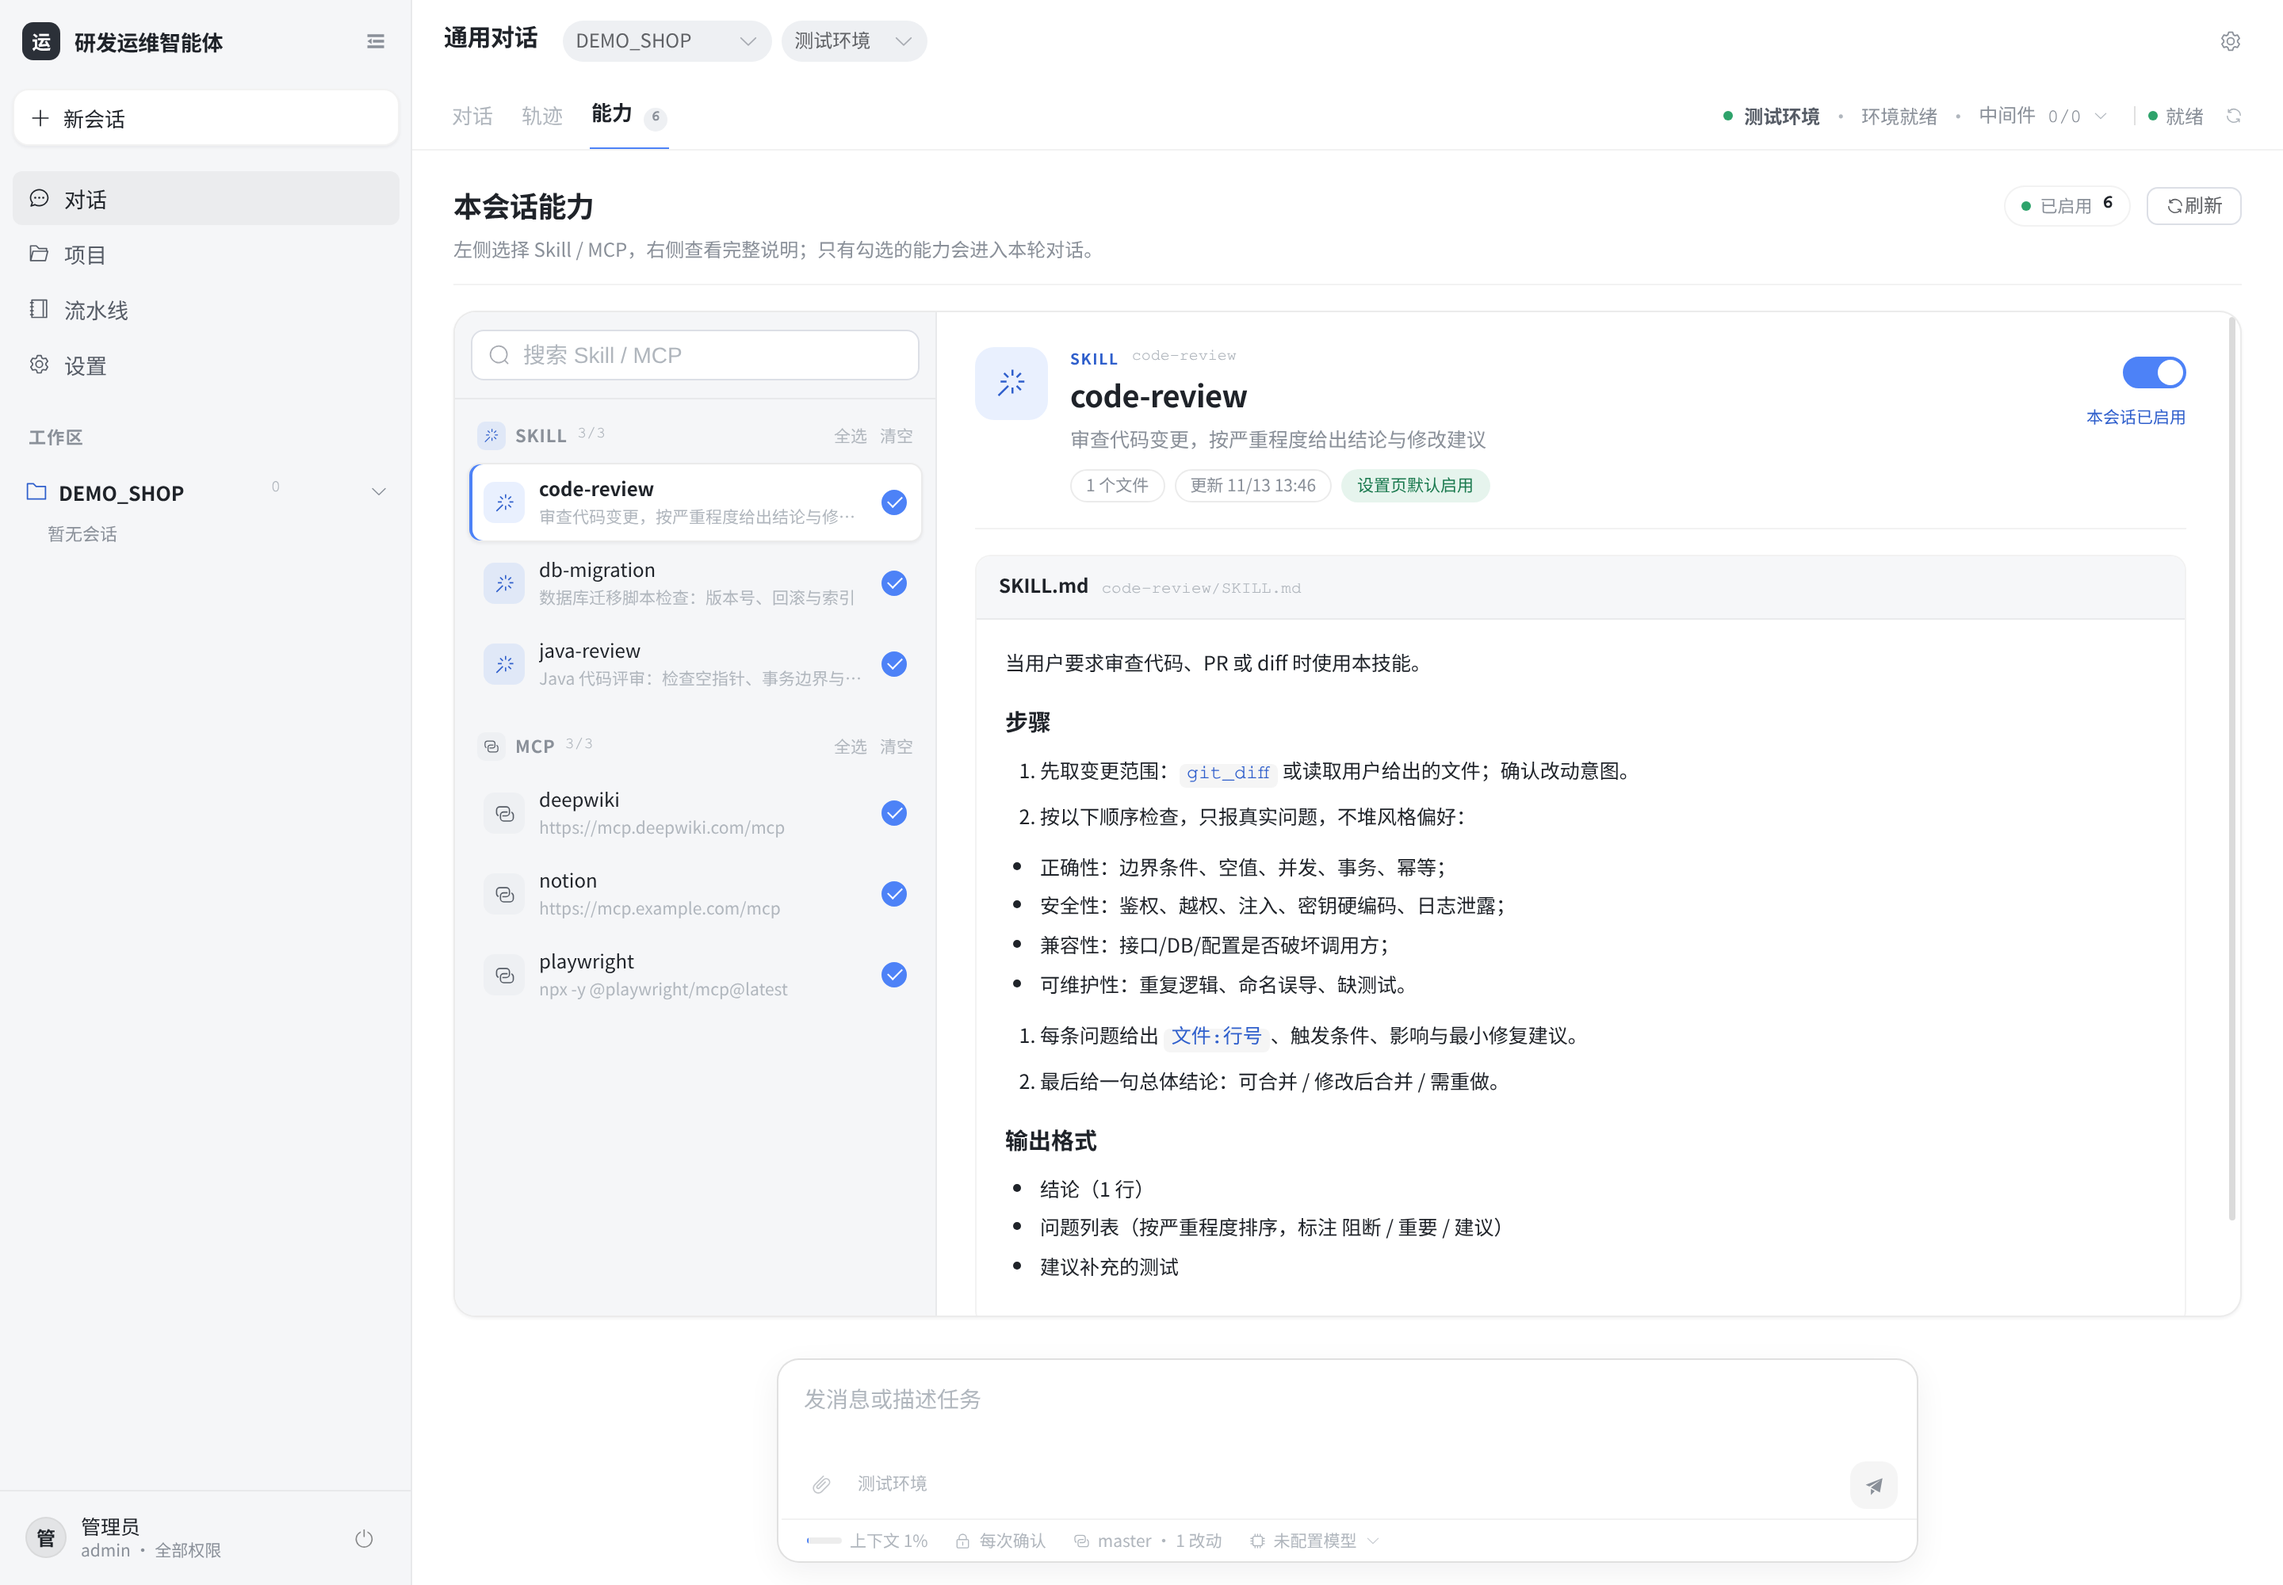
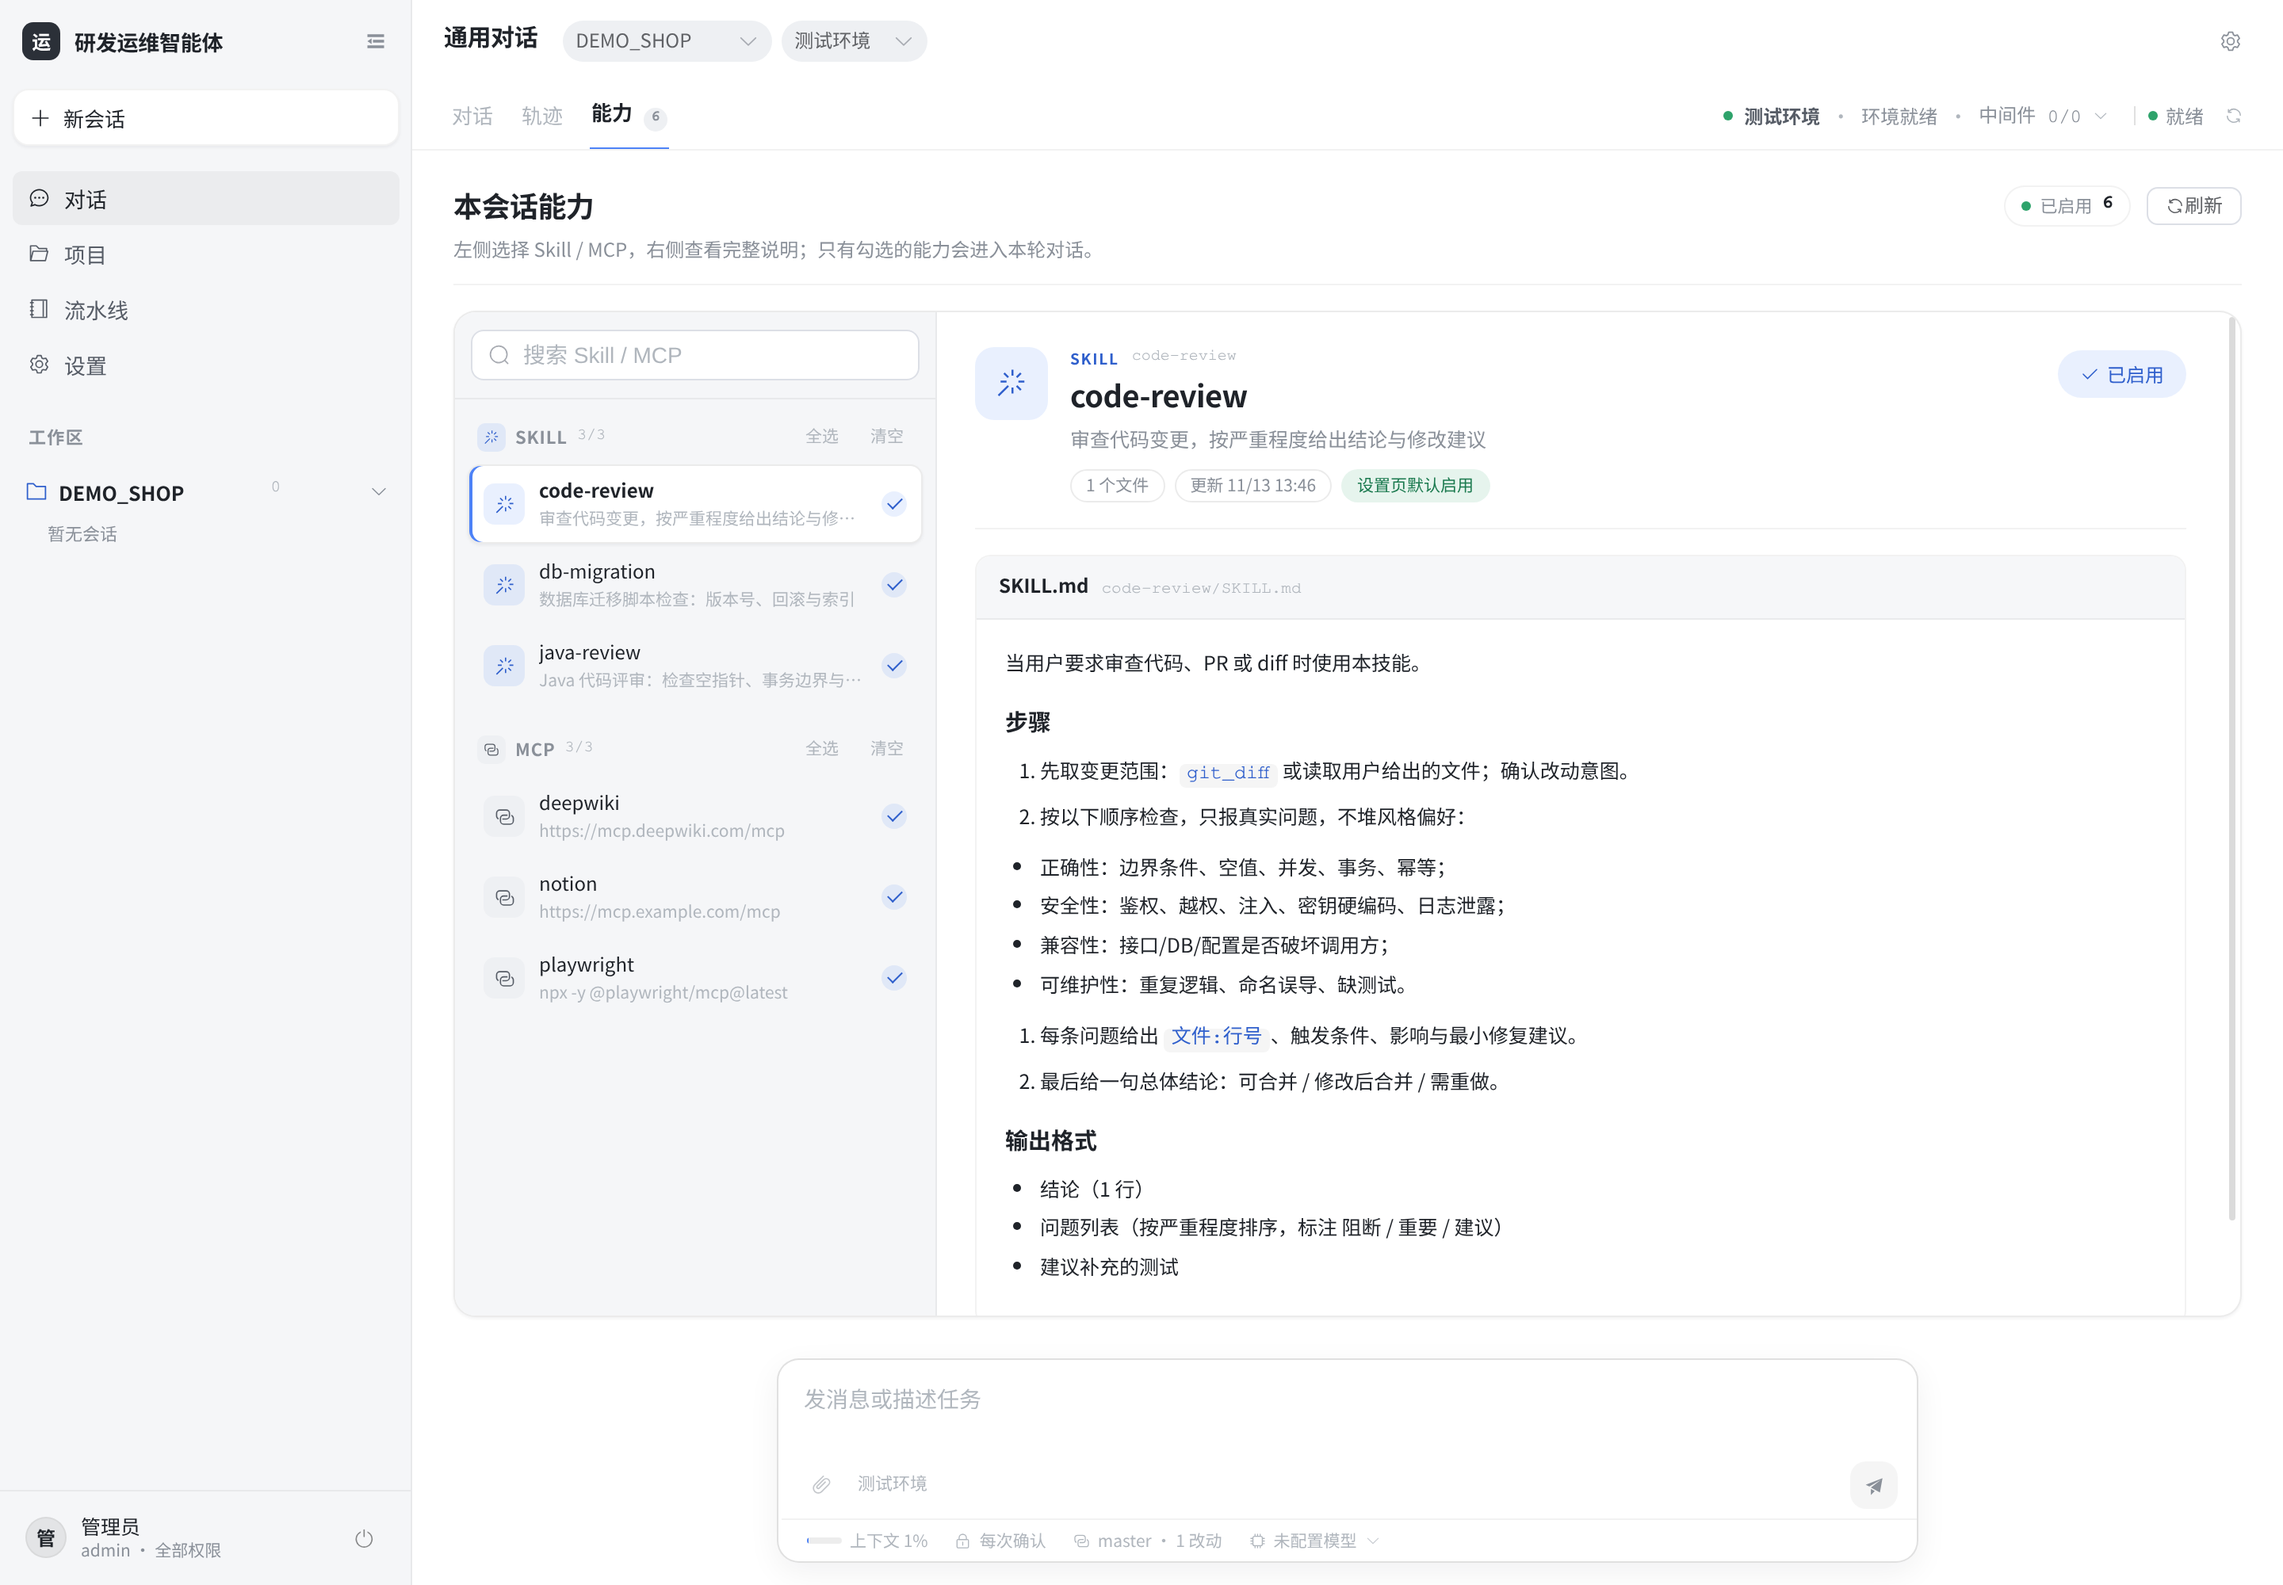
feat: update workspace

diff --git a/platform/web/src/components/chat/ChatCapabilitiesView.vue b/platform/web/src/components/chat/ChatCapabilitiesView.vue
@@ -1,6 +1,6 @@
 <script setup lang="ts">
 import { computed, ref, watch } from 'vue'
-import { Connection, MagicStick, Refresh, Search } from '@element-plus/icons-vue'
+import { Check, Connection, MagicStick, Plus, Refresh, Search } from '@element-plus/icons-vue'
 import type { CapabilityOption } from '../../composables/useChatCapabilities'
 import { readSkill } from '../../api/settings'
 import MarkdownView from './MarkdownView.vue'
@@ -258,13 +258,13 @@ function formatTime(ts?: number): string {
                 </div>
               </div>
               <div class="hero-switch">
-                <el-switch
-                  :model-value="isOn(active)"
-                  @change="(v: string | number | boolean) => toggleActive(Boolean(v))"
-                />
-                <span class="switch-label" :class="{ on: isOn(active) }">
-                  {{ isOn(active) ? '本会话已启用' : '本会话未启用' }}
-                </span>
+                <button
+                  type="button" class="cap-toggle" :class="{ on: isOn(active) }"
+                  @click="toggleActive(!isOn(active))"
+                >
+                  <el-icon><Check v-if="isOn(active)" /><Plus v-else /></el-icon>
+                  {{ isOn(active) ? '已启用' : '启用' }}
+                </button>
               </div>
             </div>
 
@@ -484,15 +484,19 @@ function formatTime(ts?: number): string {
   gap: 8px;
 }
 .link {
-  padding: 0;
+  padding: 2px 6px;
   font-size: 10.5px;
   color: var(--ink-faint);
   cursor: pointer;
   background: none;
   border: 0;
+  border-radius: var(--radius-xs);
+  transition: color var(--dur-fast) var(--ease-out),
+    background-color var(--dur-fast) var(--ease-out);
 }
 .link:hover {
-  color: var(--accent-ink);
+  color: var(--ink-soft);
+  background: var(--surface-hover);
 }
 .group-empty {
   padding: 8px 7px;
@@ -577,8 +581,8 @@ function formatTime(ts?: number): string {
     border-color var(--dur-fast) var(--ease-out);
 }
 .item-on.on {
-  background: var(--accent);
-  border-color: var(--accent);
+  background: var(--accent-soft);
+  border-color: transparent;
 }
 .item-on.on::after {
   position: absolute;
@@ -587,7 +591,7 @@ function formatTime(ts?: number): string {
   width: 4px;
   height: 8px;
   content: '';
-  border: solid var(--brand-mark-ink);
+  border: solid var(--accent-ink);
   border-width: 0 1.5px 1.5px 0;
   transform: rotate(45deg);
 }
@@ -689,16 +693,41 @@ function formatTime(ts?: number): string {
 .hero-switch {
   display: flex;
   flex: none;
-  flex-direction: column;
+  align-items: flex-start;
+  padding-top: 2px;
+}
+/* 开关用按钮形态：比滑块更轻，和整页的胶囊语言一致 */
+.cap-toggle {
+  display: inline-flex;
   gap: 5px;
-  align-items: flex-end;
+  align-items: center;
+  height: 30px;
+  padding: 0 13px;
+  font-family: inherit;
+  font-size: 12px;
+  font-weight: 500;
+  color: var(--ink-muted);
+  white-space: nowrap;
+  cursor: pointer;
+  background: var(--surface-raised);
+  border: 1px solid var(--line);
+  border-radius: var(--radius-pill);
+  transition: color var(--dur-fast) var(--ease-out),
+    background-color var(--dur-fast) var(--ease-out),
+    border-color var(--dur-fast) var(--ease-out);
 }
-.switch-label {
-  font-size: 10.5px;
-  color: var(--ink-faint);
+.cap-toggle:hover {
+  color: var(--ink);
+  background: var(--code-bg);
+  border-color: var(--line-strong);
 }
-.switch-label.on {
+.cap-toggle.on {
   color: var(--accent-ink);
+  background: var(--accent-soft);
+  border-color: transparent;
+}
+.cap-toggle.on:hover {
+  opacity: 0.88;
 }
 
 /* SKILL.md / 连接方式 */

diff --git a/platform/web/src/components/settings/McpPanel.vue b/platform/web/src/components/settings/McpPanel.vue
@@ -260,12 +260,15 @@ defineExpose({ load })
         {{ s.transport === 'stdio' ? [s.command, ...s.args].filter(Boolean).join(' ') : s.url }}
       </span>
       <span v-if="s.headerNames.length" class="mcp-meta">headers: {{ s.headerNames.join(', ') }}</span>
-      <el-switch
-        size="small"
-        :model-value="s.enabled"
+      <button
+        type="button"
+        class="toggle-btn"
+        :class="{ on: s.enabled }"
         :title="s.enabled ? '默认启用：对话未单独勾选时调用' : '已停用：对话里需手动勾选'"
-        @change="(v: string | number | boolean) => toggleEnabled(s, Boolean(v))"
-      />
+        @click="toggleEnabled(s, !s.enabled)"
+      >
+        {{ s.enabled ? '已启用' : '已停用' }}
+      </button>
       <span class="mcp-actions">
         <el-button size="small" text :loading="testing === s.id" @click="test(s)">测试</el-button>
         <el-button size="small" text @click="editForm(s)">编辑</el-button>
@@ -407,9 +410,38 @@ defineExpose({ load })
   align-items: center;
   gap: 10px;
   padding: 9px 12px;
-  background: var(--bg);
+  background: var(--surface-raised);
   border: 1px solid var(--line-soft);
-  border-radius: var(--radius-sm);
+  border-radius: var(--radius-md);
+  transition: border-color var(--dur-fast) var(--ease-out);
+}
+.mcp-row:hover {
+  border-color: var(--line);
+}
+.toggle-btn {
+  flex: none;
+  height: 24px;
+  padding: 0 10px;
+  font-family: inherit;
+  font-size: 11px;
+  color: var(--ink-muted);
+  white-space: nowrap;
+  cursor: pointer;
+  background: transparent;
+  border: 1px solid var(--line);
+  border-radius: var(--radius-pill);
+  transition: color var(--dur-fast) var(--ease-out),
+    background-color var(--dur-fast) var(--ease-out),
+    border-color var(--dur-fast) var(--ease-out);
+}
+.toggle-btn:hover {
+  color: var(--ink);
+  border-color: var(--line-strong);
+}
+.toggle-btn.on {
+  color: var(--accent-ink);
+  background: var(--accent-soft);
+  border-color: transparent;
 }
 .mcp-name {
   flex: none;

diff --git a/platform/web/src/components/settings/SkillPanel.vue b/platform/web/src/components/settings/SkillPanel.vue
@@ -233,12 +233,15 @@ defineExpose({ load })
         </div>
         <div class="skill-desc">{{ s.description || '（SKILL.md 未填写 description）' }}</div>
       </div>
-      <el-switch
-        size="small"
-        :model-value="s.enabled"
+      <button
+        type="button"
+        class="toggle-btn"
+        :class="{ on: s.enabled }"
         :title="s.enabled ? '默认启用：对话未单独勾选时加载' : '已停用：对话里需手动勾选'"
-        @change="(v: string | number | boolean) => toggleEnabled(s, Boolean(v))"
-      />
+        @click="toggleEnabled(s, !s.enabled)"
+      >
+        {{ s.enabled ? '已启用' : '已停用' }}
+      </button>
       <div class="skill-actions">
         <el-button size="small" text @click="preview(s)">查看</el-button>
         <el-button size="small" text type="danger" @click="remove(s)">删除</el-button>
@@ -358,9 +361,38 @@ defineExpose({ load })
   align-items: center;
   gap: 12px;
   padding: 11px 13px;
-  background: var(--bg);
+  background: var(--surface-raised);
   border: 1px solid var(--line-soft);
   border-radius: var(--radius-md);
+  transition: border-color var(--dur-fast) var(--ease-out);
+}
+.skill-card:hover {
+  border-color: var(--line);
+}
+.toggle-btn {
+  flex: none;
+  height: 24px;
+  padding: 0 10px;
+  font-family: inherit;
+  font-size: 11px;
+  color: var(--ink-muted);
+  white-space: nowrap;
+  cursor: pointer;
+  background: transparent;
+  border: 1px solid var(--line);
+  border-radius: var(--radius-pill);
+  transition: color var(--dur-fast) var(--ease-out),
+    background-color var(--dur-fast) var(--ease-out),
+    border-color var(--dur-fast) var(--ease-out);
+}
+.toggle-btn:hover {
+  color: var(--ink);
+  border-color: var(--line-strong);
+}
+.toggle-btn.on {
+  color: var(--accent-ink);
+  background: var(--accent-soft);
+  border-color: transparent;
 }
 .skill-main {
   flex: 1;
